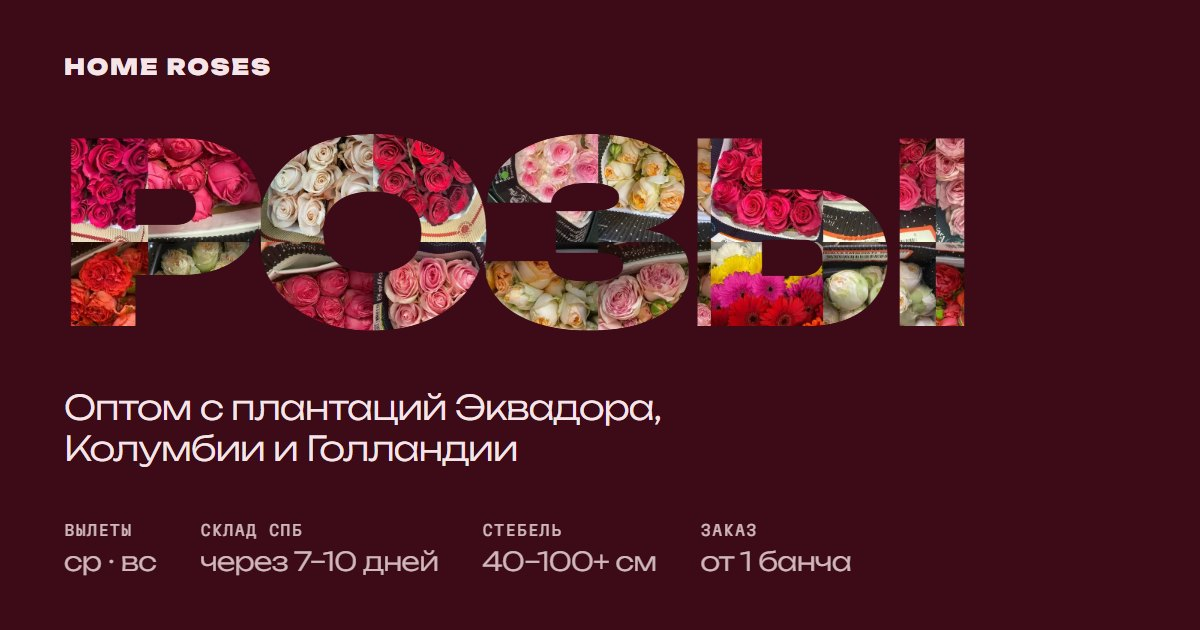
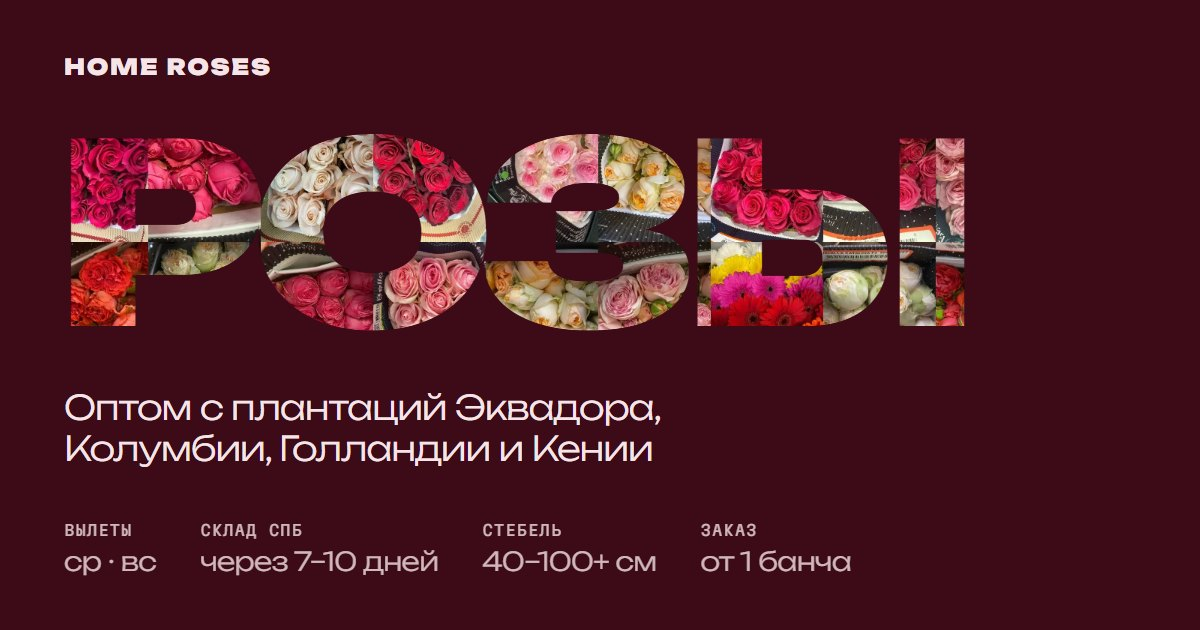
Add Kenya, new order cut-offs (Sun 23:00 / Wed 23:00) with nearest-open-flight timer, FAQ text, delivery wording, single contact number +7 981 052-42-42

Changed region(s): [[0.2158, 0.6937, 0.555, 0.754]]

diff --git a/index.html b/index.html
@@ -3,15 +3,15 @@
 <head>
 <meta charset="utf-8">
 <meta name="viewport" content="width=device-width, initial-scale=1">
-<title>HOME ROSES — розы и гвоздики с плантаций Эквадора, Колумбии и Голландии</title>
-<meta name="description" content="Импорт срезанных цветов из Эквадора, Колумбии и Голландии в Россию с 2018 года. Поставка под заказ, продажа со склада в Санкт-Петербурге, импорт и логистика как услуга.">
+<title>HOME ROSES — розы и гвоздики с плантаций Эквадора, Колумбии, Голландии и Кении</title>
+<meta name="description" content="Импорт срезанных цветов из Эквадора, Колумбии, Голландии и Кении в Россию с 2018 года. Поставка под заказ, продажа со склада в Санкт-Петербурге, импорт и логистика как услуга.">
 <meta name="theme-color" content="#EEE8E0">
 <meta name="robots" content="index, follow">
 <link rel="icon" href="favicon.svg" type="image/svg+xml">
 <meta property="og:type" content="website">
 <meta property="og:locale" content="ru_RU">
 <meta property="og:site_name" content="HOME ROSES">
-<meta property="og:title" content="HOME ROSES — розы оптом с плантаций Эквадора, Колумбии и Голландии">
+<meta property="og:title" content="HOME ROSES — розы оптом с плантаций Эквадора, Колумбии, Голландии и Кении">
 <meta property="og:description" content="Вылеты по средам и воскресеньям, через 7–10 дней цветы на складе в Санкт-Петербурге. Под заказ и со склада, минимальный заказ — 1 банч.">
 <meta property="og:image" content="https://andreyrey123.github.io/home-roses/og.jpg">
 <meta property="og:url" content="https://andreyrey123.github.io/home-roses/">
@@ -19,7 +19,7 @@
 <meta property="og:image:width" content="1200">
 <meta property="og:image:height" content="630">
 <meta name="twitter:card" content="summary_large_image">
-<script type="application/ld+json">{"@context": "https://schema.org", "@type": "Florist", "name": "HOME ROSES", "description": "Импорт срезанных цветов из Эквадора, Колумбии и Голландии. Оптом под заказ и со склада в Санкт-Петербурге.", "image": "https://andreyrey123.github.io/home-roses/og.jpg", "url": "https://andreyrey123.github.io/home-roses/", "telephone": ["+7 931 222-00-42", "+7 911 962-42-42", "+7 981 052-42-42"], "foundingDate": "2018", "priceRange": "от 1 банча", "address": {"@type": "PostalAddress", "streetAddress": "1-й Бадаевский проезд, 9А", "addressLocality": "посёлок Шушары, Санкт-Петербург", "addressCountry": "RU"}, "geo": {"@type": "GeoCoordinates", "latitude": 59.808188, "longitude": 30.402877}, "areaServed": "RU", "sameAs": ["https://t.me/hr_LTDA", "https://instagram.com/homeroses_", "https://yandex.ru/maps/org/home_roses/168479410734/"]}</script>
+<script type="application/ld+json">{"@context": "https://schema.org", "@type": "Florist", "name": "HOME ROSES", "description": "Импорт срезанных цветов из Эквадора, Колумбии, Голландии и Кении. Оптом под заказ и со склада в Санкт-Петербурге.", "image": "https://andreyrey123.github.io/home-roses/og.jpg", "url": "https://andreyrey123.github.io/home-roses/", "telephone": "+7 981 052-42-42", "foundingDate": "2018", "priceRange": "от 1 банча", "address": {"@type": "PostalAddress", "streetAddress": "1-й Бадаевский проезд, 9А", "addressLocality": "посёлок Шушары, Санкт-Петербург", "addressCountry": "RU"}, "geo": {"@type": "GeoCoordinates", "latitude": 59.808188, "longitude": 30.402877}, "areaServed": "Россия, СНГ, международная доставка", "sameAs": ["https://t.me/hr_LTDA", "https://instagram.com/homeroses_", "https://yandex.ru/maps/org/home_roses/168479410734/"]}</script>
 <link rel="preload" href="fonts/unbounded-cyrillic-c86556.woff2" as="font" type="font/woff2" crossorigin>
 <link rel="preload" href="fonts/golos-text-cyrillic-f57bdd.woff2" as="font" type="font/woff2" crossorigin>
 <link rel="stylesheet" href="fonts/fonts.css">
@@ -81,6 +81,7 @@ img{display:block;max-width:100%}
 .ft.ec{background-image:radial-gradient(circle at 50% 60%,#6B4F2A 0 .09em,transparent .1em),linear-gradient(#FFD100 0 52%,#034EA2 0 71%,#ED1C24 0)}
 .ft.co{background-image:linear-gradient(#FCD116 0 52%,#003893 0 71%,#CE1126 0)}
 .ft.nl{background-image:linear-gradient(#AE1C28 0 46%,#fff 0 63%,#21468B 0)}
+.ft.ke{background-image:linear-gradient(#141414 0 49%,#fff 0 53%,#BB0000 0 66%,#fff 0 70%,#006600 0)}
 .intro .isub{margin:10px 0 0;max-width:52ch;font-size:clamp(15px,1.1vw,17px);line-height:1.5;opacity:.72}
 .intro .act{display:flex;flex-direction:column;align-items:flex-end;gap:14px}
 .ifacts{grid-column:1/-1;display:flex;flex-wrap:wrap;gap:14px clamp(18px,3.4vw,52px);padding-top:18px;border-top:1px solid var(--line)}
@@ -96,6 +97,7 @@ img{display:block;max-width:100%}
 .flag.ec{background:radial-gradient(circle,#6B4F2A 0 2.3px,transparent 2.8px),linear-gradient(#FFD100 0 50%,#034EA2 0 75%,#ED1C24 0)}
 .flag.co{background:linear-gradient(#FCD116 0 50%,#003893 0 75%,#CE1126 0)}
 .flag.nl{background:linear-gradient(#AE1C28 0 33.4%,#fff 0 66.7%,#21468B 0)}
+.flag.ke{background:linear-gradient(#000 0 30%,#fff 0 35%,#BB0000 0 65%,#fff 0 70%,#006600 0)}
 .place p{margin:0;font:400 clamp(19px,1.5vw,23px)/1.35 "Cormorant Garamond",Georgia,serif;opacity:.92;max-width:34ch}
 .place > *{transition:opacity .45s,transform .7s var(--ease)}
 .place.swap > *{opacity:0;transform:translateY(10px)}
@@ -295,7 +297,7 @@ html.shot-mode *,html.shot-mode *::before,html.shot-mode *::after{transition:non
     <div id="cards" aria-hidden="true"></div>
     <div class="geo" id="geo" aria-hidden="true"></div>
     <div class="intro" id="intro">
-      <div><h1><span class="vh">HOME ROSES — </span>Цветы из <span class="ft ec">Эквадора</span>, <span class="ft co">Колумбии</span> и&nbsp;<span class="ft nl">Голландии</span></h1><p class="isub">Под заказ и со склада в Санкт-Петербурге. Возим с 2018 года, по каждой партии сверяем документы.</p></div>
+      <div><h1><span class="vh">HOME ROSES — </span>Цветы из <span class="ft ec">Эквадора</span>, <span class="ft co">Колумбии</span>, <span class="ft nl">Голландии</span> и&nbsp;<span class="ft ke">Кении</span></h1><p class="isub">Под заказ и со склада в Санкт-Петербурге. Возим с 2018 года, по каждой партии сверяем документы.</p></div>
       <div class="act"><button class="pill solid" data-price>Запросить прайс</button><span class="cue mono"><i></i>Листайте</span></div>
       <div class="ifacts mono"><span>Вылеты<b>ср · вс</b></span><span>На складе СПб<b>через 7–10 дней</b></span><span>Стебель<b>40–100+ см</b></span><span>Заказ<b>от 1 банча</b></span><span>Доставка<b>по всему миру</b></span><span>Склад<b>1-й Бадаевский пр., 9А</b></span></div>
     </div>
@@ -310,13 +312,13 @@ html.shot-mode *,html.shot-mode *::before,html.shot-mode *::after{transition:non
 <!-- ============ ROUTE: globe with planes ============ -->
 <section class="s route" id="route">
   <div class="rv">
-    <h2>Три страны — один склад</h2>
+    <h2>Четыре страны — один склад</h2>
     <p>Закупаем напрямую у плантаций. От плантации до нашего склада в Шушарах цветы едут в холодной цепи при +2…+4 °C.</p>
-    <ul class="legs mono"><li><b>Эквадор</b><span><i>0°13′ ю. ш.</i>плантации</span></li><li><b>Колумбия</b><span><i>4°36′ с. ш.</i>плантации</span></li><li><b>Голландия</b><span><i>52°22′ с. ш.</i>плантации</span></li><li><b>Санкт-Петербург</b><span><i>59°48′ с. ш.</i>склад · Шушары</span></li></ul>
+    <ul class="legs mono"><li><b>Эквадор</b><span><i>0°13′ ю. ш.</i>плантации</span></li><li><b>Колумбия</b><span><i>4°36′ с. ш.</i>плантации</span></li><li><b>Голландия</b><span><i>52°22′ с. ш.</i>плантации</span></li><li><b>Кения</b><span><i>1°17′ ю. ш.</i>плантации</span></li><li><b>Санкт-Петербург</b><span><i>59°48′ с. ш.</i>склад · Шушары</span></li></ul>
     <div class="cold mono"><span>Холодная цепь</span><b>+2…+4 °C</b><span>от плантации до нашего склада</span></div>
   </div>
   <div class="globe-box rv">
-    <canvas id="globe" role="img" aria-label="Земной шар: цветы летят из Эквадора, Колумбии и Голландии на склад в Санкт-Петербурге"></canvas>
+    <canvas id="globe" role="img" aria-label="Земной шар: цветы летят из Эквадора, Колумбии, Голландии и Кении на склад в Санкт-Петербурге"></canvas>
     <span class="map-note mono">Схема условная · потяните, чтобы повернуть</span>
   </div>
 </section>
@@ -336,7 +338,7 @@ html.shot-mode *,html.shot-mode *::before,html.shot-mode *::after{transition:non
     <div class="big fill" style="background-position-x:-70%">Логистика</div>
     <div><div class="who mono">Импортёрам без своей логистики</div><p>Вы закупаете у плантаций сами, а доставку в Россию и документы мы берём на себя.</p><span class="go"><i>→</i>Обсудить условия</span></div>
   </a>
-  <div class="note mono rv"><span>Доставляем в регионы России</span></div>
+  <div class="note mono rv"><span>Доставка по России, в СНГ и за рубеж</span></div>
 </section>
 
 <!-- ============ ASSORTMENT ============ -->
@@ -358,7 +360,7 @@ html.shot-mode *,html.shot-mode *::before,html.shot-mode *::after{transition:non
     <li class="step"><span class="n">1</span><h3>Заявка</h3><p>Сорта, длина стебля, количество коробок.</p></li>
     <li class="step"><span class="n">2</span><h3>Закупка</h3><p>Размещаем заказ на плантациях.</p></li>
     <li class="step"><span class="n">3</span><h3>Доставка</h3><p>Вылет в среду или воскресенье. До склада в СПб обычно 7–8 дней, с запасом на таможню и транспорт — до 10.</p></li>
-    <li class="step"><span class="n">4</span><h3>Получение</h3><p>Забираете со склада или получаете доставкой в ваш регион, с полным комплектом документов.</p></li>
+    <li class="step"><span class="n">4</span><h3>Получение</h3><p>Забираете со склада или получаете доставкой по России, в СНГ или за рубеж — с полным комплектом документов.</p></li>
   </ol>
 </section>
 
@@ -371,7 +373,7 @@ html.shot-mode *,html.shot-mode *::before,html.shot-mode *::after{transition:non
       <span class="mono">Ближайший вылет</span>
       <div class="d" id="nd">—</div>
       <dl><dt>На складе в СПб</dt><dd id="na">—</dd><dt>Следующий вылет</dt><dd id="nn">—</dd></dl>
-      <div class="cut"><span class="mono">Приём заявок на этот рейс</span><b id="cutT">—</b><small id="cutD">Заявки принимаем по московскому времени: на рейс в среду — до 23:59 вторника, на рейс в воскресенье — до 18:00 пятницы.</small></div>
+      <div class="cut"><span class="mono" id="cutL">Приём заявок</span><b id="cutT">—</b><small id="cutD">Заявки принимаем по московскому времени: на рейс в среду — до 23:00 воскресенья, на рейс в воскресенье — до 23:00 среды. Другие сроки подачи заявки обсуждаются индивидуально.</small></div>
       <small>Даты рассчитаны по графику и ориентировочны. Точные сроки по вашему заказу уточняйте у нас.</small>
       <button class="pill" data-price>Успеть к этому вылету</button>
     </div>
@@ -426,12 +428,12 @@ html.shot-mode *,html.shot-mode *::before,html.shot-mode *::after{transition:non
   <div class="faq rv">
     <details><summary>Какой минимальный заказ?<i></i></summary><p>1 банч, то есть одна упаковка.</p></details>
     <details><summary>Сколько ждать цветы под заказ?<i></i></summary><p>Вылеты каждую среду и воскресенье. До склада в Санкт-Петербурге обычно 7–8 дней, с запасом на таможню и транспорт — до 10.</p></details>
-    <details><summary>До какого времени принимаете заявки на рейс?<i></i></summary><p>По московскому времени: на рейс в среду — до 23:59 вторника, на рейс в воскресенье — до 18:00 пятницы.</p></details>
+    <details><summary>До какого времени принимаете заявки на рейс?<i></i></summary><p>По московскому времени: на рейс в среду — до 23:00 воскресенья, на рейс в воскресенье — до 23:00 среды. Другие сроки подачи заявки обсуждаются индивидуально.</p></details>
     <details><summary>Можно купить без ожидания рейса?<i></i></summary><p>Да. На складе в Санкт-Петербурге есть цветы в наличии. Напишите, и мы расскажем, что есть сейчас.</p></details>
-    <details><summary>Доставляете в регионы?<i></i></summary><p>Да. Цветы можно забрать со склада или получить с доставкой в ваш регион.</p></details>
-    <details><summary>Какие документы я получу?<i></i></summary><p>Полный комплект документов по партии. По каждой позиции указаны плантация, сорт, длина стебля и количество стеблей. Номера, вес и количество коробок в инвойсах, сертификатах и пакинге мы сверяем между собой.</p></details>
+    <details><summary>Доставляете в регионы и за рубеж?<i></i></summary><p>Да. Доставляем по России и СНГ, возможна международная доставка. Цветы также можно забрать со склада.</p></details>
+    <details><summary>Какие документы я получу?<i></i></summary><p>Полный комплект документов по партии. По каждой позиции указаны плантация, сорт, длина стебля и количество стеблей. Номера, вес и количество коробок указаны в инвойсах, сертификатах и пакинге.</p></details>
     <details><summary>Можно собрать заказ с разных плантаций?<i></i></summary><p>Да. Заказ не привязан к одной ферме, в одну партию можно собрать цветы с нескольких плантаций.</p></details>
-    <details><summary>Как учитываются оплаты и рекламации?<i></i></summary><p>По каждому клиенту ведём выписку: инвойсы, оплаты, рекламации, остаток.</p></details>
+    <details><summary>Как учитываются оплаты и рекламации?<i></i></summary><p>По каждому клиенту ведём выписку: инвойсы, оплаты, рекламации, остаток. Рекламации обрабатываются в течение 24 часов после заявки.</p></details>
     <details><summary>Как получить прайс?<i></i></summary><p>Напишите в Telegram, WhatsApp, MAX или на почту, и мы пришлём актуальный прайс.</p></details>
   </div>
 </section>
@@ -443,15 +445,14 @@ html.shot-mode *,html.shot-mode *::before,html.shot-mode *::after{transition:non
   <div class="cgrid">
     <ul class="clist">
       <li><span class="k">Контактное лицо</span><span>Рахман</span></li>
-      <li><span class="k">Телефон</span><span><a href="tel:+79312220042">+7 931 222-00-42</a></span></li>
-      <li><span class="k">WhatsApp и Telegram</span><span><a href="tel:+79119624242">+7 911 962-42-42</a></span></li>
-      <li><span class="k">MAX</span><span><a data-max href="#" target="_blank" rel="noopener">+7 981 052-42-42</a></span></li>
+      <li><span class="k">Телефон, WhatsApp, MAX</span><span><a href="tel:+79810524242">+7 981 052-42-42</a></span></li>
+      <li><span class="k">Telegram</span><span><a data-tg href="#" target="_blank" rel="noopener">@home_roses_ltda</a></span></li>
       <li><span class="k">Почта</span><span><button class="reveal" type="button" data-mail>Показать почту</button></span></li>
       <li><span class="k">Склад</span><span><a id="mapLink" href="#" target="_blank" rel="noopener">Санкт-Петербург, пос. Шушары, 1-й Бадаевский, 9А</a><span class="lat mono">59°48′ с. ш. · 30°24′ в. д.</span></span></li>
     </ul>
     <div class="channels">
       <a class="pill solid" data-tg href="#" target="_blank" rel="noopener">Telegram<span class="mono">@home_roses_ltda</span></a>
-      <a class="pill" data-wa href="#" target="_blank" rel="noopener">WhatsApp<span class="mono">+7 911 962-42-42</span></a>
+      <a class="pill" data-wa href="#" target="_blank" rel="noopener">WhatsApp<span class="mono">+7 981 052-42-42</span></a>
       <a class="pill" data-max href="#" target="_blank" rel="noopener">MAX<span class="mono">+7 981 052-42-42</span></a>
       <a class="pill" href="https://t.me/hr_LTDA" target="_blank" rel="noopener">Группа с фото<span class="mono">t.me/hr_LTDA</span></a>
       <a class="pill" href="https://instagram.com/homeroses_" target="_blank" rel="noopener">Instagram*<span class="mono">@homeroses_</span></a>
@@ -459,7 +460,7 @@ html.shot-mode *,html.shot-mode *::before,html.shot-mode *::after{transition:non
   </div>
 </section>
 </main>
-<footer><span>© <span id="year"></span> HOME ROSES · Импорт цветов с 2018 года · Санкт-Петербург</span><span>Широты стран указаны по столицам: Кито, Богота, Амстердам. Склад — Шушары, 59°48′ с. ш.</span>
+<footer><span>© <span id="year"></span> HOME ROSES · Импорт цветов с 2018 года · Санкт-Петербург</span><span>Широты стран указаны по столицам: Кито, Богота, Амстердам, Найроби. Склад — Шушары, 59°48′ с. ш.</span>
 <p>* Instagram принадлежит компании Meta, признанной экстремистской организацией и запрещённой на территории РФ. Фотографии на сайте — реальные, с нашего склада.</p></footer>
 
 <dialog id="dlg" aria-labelledby="dlgT"><div class="dlg">
@@ -468,7 +469,7 @@ html.shot-mode *,html.shot-mode *::before,html.shot-mode *::after{transition:non
   <p>Выберите, куда удобнее написать. Текст сообщения уже подготовлен.</p>
   <div class="channels">
     <a class="pill solid" data-tg href="#" target="_blank" rel="noopener">Telegram<span class="mono">@home_roses_ltda</span></a>
-    <a class="pill" data-wa href="#" target="_blank" rel="noopener">WhatsApp<span class="mono">+7 911 962-42-42</span></a>
+    <a class="pill" data-wa href="#" target="_blank" rel="noopener">WhatsApp<span class="mono">+7 981 052-42-42</span></a>
       <a class="pill" data-max href="#" target="_blank" rel="noopener">MAX<span class="mono">+7 981 052-42-42</span></a>
     <a class="pill" data-mail href="#">Почта<span class="mono">написать письмо</span></a>
   </div>
@@ -480,7 +481,7 @@ html.shot-mode *,html.shot-mode *::before,html.shot-mode *::after{transition:non
 const MSG = 'Здравствуйте! Хочу получить прайс HOME ROSES.';
 const L = {
   tg: 'https://t.me/home_roses_ltda?text=' + encodeURIComponent(MSG),
-  wa: 'https://wa.me/79119624242?text=' + encodeURIComponent(MSG),
+  wa: 'https://wa.me/79810524242?text=' + encodeURIComponent(MSG),
 };
 document.querySelectorAll('[data-tg]').forEach(a => a.href = L.tg);
 document.querySelectorAll('[data-wa]').forEach(a => a.href = L.wa);
@@ -506,7 +507,7 @@ dlg.addEventListener('click', e => { if (e.target === dlg) dlg.close(); });
 // each word hides the next one inside its «О»; inside the «О» you already see the next world's colour
 const CHAIN = [
   {w: 'РОЗЫ',      o: 1, nav: 'Розы',      bg: '#EEE8E0', fg: '#17120F', pos: '0%'},
-  {w: 'EC CO NL', o: 4, nav: 'Плантации', bg: '#1D3A2F', fg: '#ECE6D8', pos: '-40%', coord: 'Напрямую с плантаций', name: '<i class="flag ec"></i>Эквадор\n<i class="flag co"></i>Колумбия\n<i class="flag nl"></i>Голландия', geo: [{a: 0, b: 2, t: '0°13′ ю. ш.\n78°31′ з. д.'}, {a: 3, b: 5, t: '4°36′ с. ш.\n74°05′ з. д.'}, {a: 6, b: 8, t: '52°22′ с. ш.\n4°54′ в. д.'}], text: 'Закупаем напрямую у плантаций. В одной партии может быть несколько ферм — плантация указана в документах по каждой позиции.'},
+  {w: 'EC CO NL KE', o: 4, nav: 'Плантации', bg: '#1D3A2F', fg: '#ECE6D8', pos: '-40%', coord: 'Напрямую с плантаций', name: '<i class="flag ec"></i>Эквадор\n<i class="flag co"></i>Колумбия\n<i class="flag nl"></i>Голландия\n<i class="flag ke"></i>Кения', geo: [{a: 0, b: 2, t: '0°13′ ю. ш.\n78°31′ з. д.'}, {a: 3, b: 5, t: '4°36′ с. ш.\n74°05′ з. д.'}, {a: 6, b: 8, t: '52°22′ с. ш.\n4°54′ в. д.'}, {a: 9, b: 11, t: '1°17′ ю. ш.\n36°49′ в. д.'}], text: 'Закупаем напрямую у плантаций. В одной партии может быть несколько ферм — плантация указана в документах по каждой позиции.'},
   {w: 'ДОМ',       o: 1, nav: 'Дом',       bg: '#3D0A17', fg: '#F5E4E8', pos: '-95%', geo: [{a: 0, b: 3, t: '59°48′ с. ш. · 30°24′ в. д.'}], coord: '59°48′ с. ш.', name: 'Санкт-Петербург · Шушары', text: 'Через 7–10 дней после вылета цветы на нашем складе.'},
 ];
 const N = CHAIN.length, TAIL = .3;               // extra scroll to rest on ДОМ
@@ -543,7 +544,7 @@ const PHOTO = ['', 'img/p38.webp', 'img/p10.webp'];
 PHOTO.forEach(src => { if (src) { const im = new Image(); im.src = src; im.decode && im.decode().catch(() => {}); } });
 const worlds = document.getElementById('worlds');
 worlds.innerHTML = CHAIN.map((c, j) => `<button data-j="${j}">${c.nav}</button>`).join('');
-let G = [], W = 0, H = 0, D = 0, Gmax = 0, textTop = 600;
+let G = [], W = 0, H = 0, D = 0, CY = 0, Gmax = 0, textTop = 600;
 // rasterise the «О» once and find its counter (the hole): centre and diameter relative to the letter's box
 const holeCv = document.createElement('canvas'), holeCtx = holeCv.getContext('2d', {willReadFrequently: true});
 function counter(span) {
@@ -579,6 +580,8 @@ function measure() {
     return g;
   });
   Gmax = Math.max(...G.map(g => g.h));
+  // phones have room for latitude only under each code
+  GEO.forEach(list => list.forEach(c => { c.el.textContent = W < 900 ? c.t.split('\n')[0] : c.t; }));
   // measure the tallest text block (the plantations world) up front with an invisible copy, so the layout never jumps
   const probe = place.cloneNode(true), c = CHAIN[1];
   probe.removeAttribute('id'); probe.style.visibility = 'hidden'; probe.style.opacity = 0;
@@ -586,6 +589,10 @@ function measure() {
   probe.querySelector('.name').innerHTML = c.name.split('\n').map(x => `<span>${x}</span>`).join('');
   probe.querySelector('p').textContent = c.text;
   stage.appendChild(probe); textTop = Math.min(document.getElementById('intro').offsetTop, probe.offsetTop || H); probe.remove();
+  // words sit centred, but always above the bottom text (with room for the coordinate captions), on phones and desktops
+  const mob = W < 900;
+  CY = Math.max((mob ? 165 : 90) + Gmax / 2, Math.min(H * (mob ? .4 : .5), textTop - (mob ? 56 : 72) - Gmax / 2));
+  D = 2 * Math.hypot(W / 2, Math.max(CY, H - CY)) * 1.04;
   portal.style.width = portal.style.height = D + 'px';
 }
 const clamp = (x, a = 0, b = 1) => Math.max(a, Math.min(b, x)), seg = (p, a, b) => clamp((p - a) / (b - a));
@@ -607,7 +614,7 @@ function chainFrame() {
   const r = chainEl.getBoundingClientRect(), span = chainEl.offsetHeight - innerHeight;
   const p = clamp(-r.top / span), T = p * (N - 1 + TAIL);
   const i = Math.min(N - 1, Math.floor(T)), u = clamp(T - i), last = i === N - 1;
-  const mob = W < 900, C = [W / 2, Math.max((mob ? 165 : 90) + Gmax / 2, Math.min(H * (mob ? .4 : .5), textTop - (mob ? 56 : 72) - Gmax / 2))], g = G[i];
+  const C = [W / 2, CY], g = G[i];
   const left = C[0] - g.w / 2, top = C[1] - g.h / 2, Pi = [left + g.ox, top + g.oy];
   els.forEach((e, j) => { e.style.visibility = (j === i || j === i + 1) ? 'visible' : 'hidden'; e.style.opacity = 1; });
   twins.forEach(t => t.style.visibility = 'hidden');
@@ -685,18 +692,19 @@ const RM = matchMedia('(prefers-reduced-motion: reduce)').matches;
   (function globe() {
     const cv = document.getElementById('globe'), ctx = cv.getContext('2d');
     const D2R = Math.PI / 180;
-    const P = {ec:[-78.5, -0.2], co:[-74.1, 4.7], nl:[4.9, 52.4], spb:[30.3, 59.9]};
+    const P = {ec:[-78.5, -0.2], co:[-74.1, 4.7], nl:[4.9, 52.4], ke:[36.8, -1.3], spb:[30.3, 59.9]};
     const LABELS = [
       {p:P.ec, t:'Эквадор', sub:'0°13′ ю. ш.', dx:-14, dy:16, al:'right'},
       {p:P.co, t:'Колумбия', sub:'4°36′ с. ш.', dx:14, dy:-6, al:'left'},
       {p:P.nl, t:'Голландия', sub:'52°22′ с. ш.', dx:-12, dy:20, al:'right'},
+      {p:P.ke, t:'Кения', sub:'1°17′ ю. ш.', dx:14, dy:16, al:'left'},
       {p:P.spb, t:'Санкт-Петербург', sub:'59°48′ с. ш. · склад', dx:14, dy:-14, al:'left', main:true},
     ];
     const xyz = ([lon, lat]) => [Math.cos(lat * D2R) * Math.cos(lon * D2R), Math.cos(lat * D2R) * Math.sin(lon * D2R), Math.sin(lat * D2R)];
     const toLL = ([x, y, z]) => [Math.atan2(y, x) / D2R, Math.asin(Math.max(-1, Math.min(1, z))) / D2R];
     const slerp = (a, b) => { const A = xyz(a), B = xyz(b), d = Math.acos(A[0] * B[0] + A[1] * B[1] + A[2] * B[2]);
       return {d, at: t => { const s1 = Math.sin((1 - t) * d) / Math.sin(d), s2 = Math.sin(t * d) / Math.sin(d); return toLL([A[0] * s1 + B[0] * s2, A[1] * s1 + B[1] * s2, A[2] * s1 + B[2] * s2]); }}; };
-    const ROUTES = [P.ec, P.co, P.nl].map((from, i) => {
+    const ROUTES = [P.ec, P.co, P.nl, P.ke].map((from, i) => {
       const g = slerp(from, P.spb), N = 90, alt = Math.max(.1, .05 + .2 * g.d);
       return {delay: i * 1.3, home: i === 2, pts: Array.from({length:N + 1}, (_, k) => ({ll:g.at(k / N), h:1 + alt * Math.sin(Math.PI * k / N)}))};
     });
@@ -857,12 +865,14 @@ const flights = []; for (let d = new Date(today); flights.length < 2; d = add(d,
 document.getElementById('nd').textContent = fmt(flights[0], {weekday: 'long', day: 'numeric', month: 'long'}).replace(/^./, c => c.toUpperCase());
 document.getElementById('na').textContent = `${fmt(add(flights[0], 7), {day: 'numeric', month: 'long'})} – ${fmt(add(flights[0], 10), {day: 'numeric', month: 'long'})}`;
 document.getElementById('nn').textContent = fmt(flights[1], {weekday: 'long', day: 'numeric', month: 'long'});
-// Wednesday flight -> Tuesday 23:59, Sunday flight -> Friday 18:00 (Moscow, UTC+3)
-const sunday = flights[0].getDay() === 0, cutDay = add(flights[0], sunday ? -2 : -1);
-const cutAt = Date.UTC(cutDay.getFullYear(), cutDay.getMonth(), cutDay.getDate(), sunday ? 15 : 20, sunday ? 0 : 59, sunday ? 0 : 59);
+// cut-off, Moscow time (UTC+3): Wednesday flight -> the Sunday before, 23:00; Sunday flight -> the Wednesday before, 23:00
+const cutOf = f => { const c = add(f, f.getDay() === 0 ? -4 : -3); return Date.UTC(c.getFullYear(), c.getMonth(), c.getDate(), 20, 0, 0); };
+const upcoming = []; for (let d = new Date(today); upcoming.length < 4; d = add(d, 1)) if (FLY.includes((d.getDay() + 6) % 7)) upcoming.push(d);
 const tickCut = () => {
-  const m = Math.floor((cutAt - Date.now()) / 60000), d = Math.floor(m / 1440), h = Math.floor(m % 1440 / 60);
-  document.getElementById('cutT').textContent = m < 0 ? 'приём закрыт — оформим на следующий рейс' : 'осталось ' + (d ? `${d} д ` : '') + (d || h ? `${h} ч ` : '') + `${m % 60} мин`;
+  const f = upcoming.find(x => cutOf(x) > Date.now()) || upcoming[upcoming.length - 1];   // the nearest flight one can still make
+  const m = Math.max(0, Math.floor((cutOf(f) - Date.now()) / 60000)), d = Math.floor(m / 1440), h = Math.floor(m % 1440 / 60);
+  document.getElementById('cutL').textContent = 'Приём заявок на рейс ' + fmt(f, {weekday: 'short', day: 'numeric', month: 'long'});
+  document.getElementById('cutT').textContent = 'осталось ' + (d ? `${d} д ` : '') + (d || h ? `${h} ч ` : '') + `${m % 60} мин`;
 };
 tickCut(); setInterval(tickCut, 30000);
 /* ---------- GSAP polish (the chain stays hand-driven; GSAP only takes the sections below it) ---------- */
